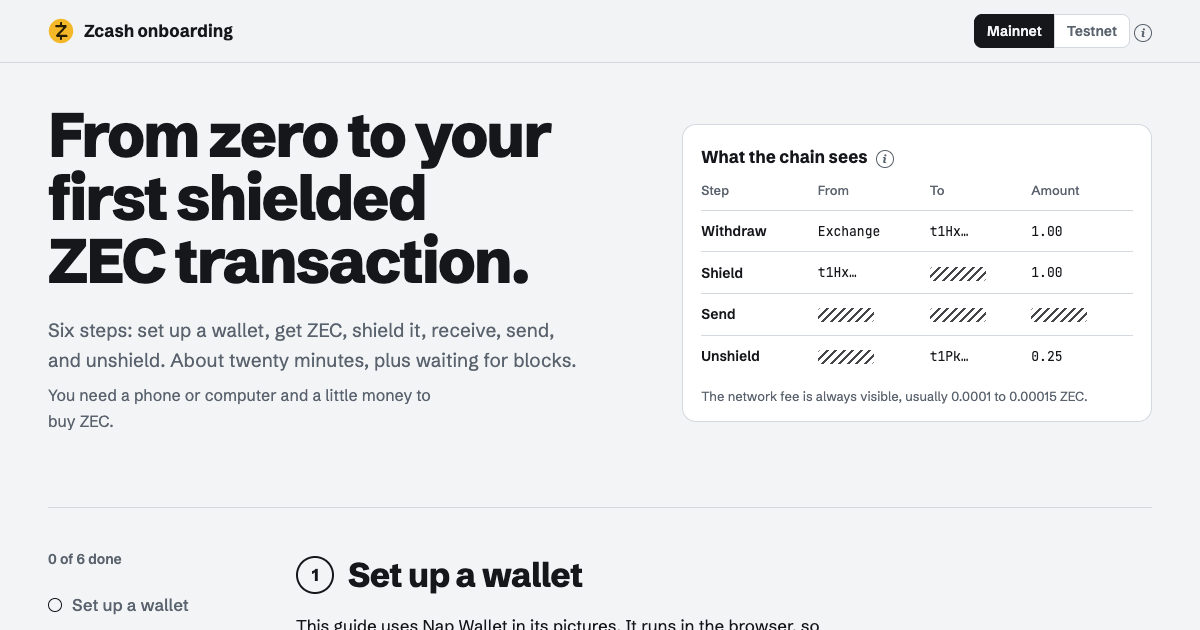
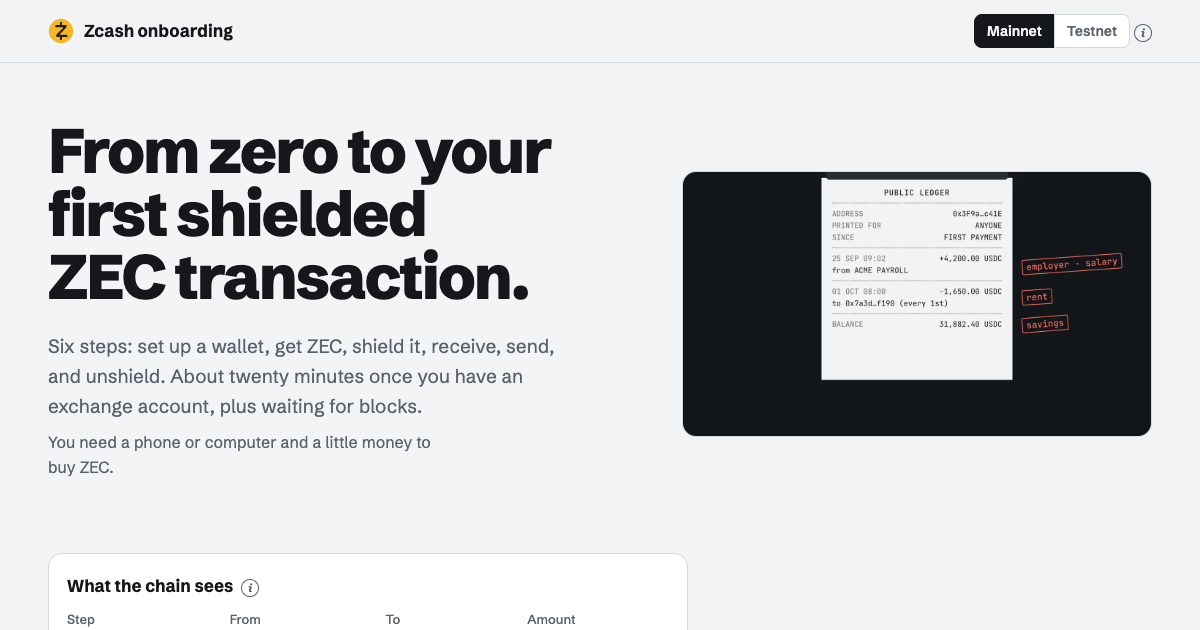
Zcash onboarding: fact-check fixes before publishing
Testnet off until Nap signs for NU7 there (live on testnet since 4 Oct);
ZEC lives under Nap's Zcash section, not Receive; memos show on arrival;
proving takes up to a minute; exchange purchase holds; wallets limited to
those ZecHub lists as Ironwood-ready; TEX deposit note; the checker reads
ztestsapling and uivk keys; whole-address comparison; new share image.

diff --git a/apps/zec-onboard/public/index.html b/apps/zec-onboard/public/index.html
@@ -21,7 +21,7 @@
 
 <header class="top">
   <a class="mark" href="/"><svg viewBox="0 0 32 32" aria-hidden="true"><circle cx="16" cy="16" r="15"/><path d="M10 10h12l-11 12h12M16 6v4M16 22v4"/></svg>Zcash onboarding</a>
-  <div class="net" role="group" aria-label="Network">
+  <div class="net" role="group" aria-label="Network" hidden>
     <button type="button" data-net="main" aria-pressed="true">Mainnet</button>
     <button type="button" data-net="test" aria-pressed="false">Testnet</button>
     <span class="tip"><button type="button" class="i" aria-expanded="false" aria-label="About testnet">i</button><span class="bubble" role="note" hidden>Testnet is a copy of Zcash for practice. Its coins, TAZ, are free from a faucet and worth nothing. Every step works the same way. Switch here and in your wallet.</span></span>
@@ -32,7 +32,7 @@
   <section class="hero">
     <div class="hero-text">
       <h1>From zero to your first shielded ZEC transaction.</h1>
-      <p class="lede">Six steps: set up a wallet, get ZEC, shield it, receive, send, and unshield. About twenty minutes once you have an exchange account, plus waiting for blocks.</p>
+      <p class="lede">Six steps: set up a wallet, get ZEC, shield it, receive, send, and unshield. About twenty minutes of steps. An exchange may hold a new purchase for days before you can withdraw it.</p>
       <p class="lede small"><span class="m">You need a phone or computer and a little money to buy ZEC.</span><span class="t">On testnet you need nothing: the faucet gives you coins.</span></p>
     </div>
     <figure class="film" aria-labelledby="film-cap">
@@ -46,7 +46,7 @@
   <section class="chain-row">
     <figure class="chain" aria-labelledby="chain-cap">
       <figcaption id="chain-cap">What the chain sees
-        <span class="tip"><button type="button" class="i" aria-expanded="false" aria-label="About this table">i</button><span class="bubble" role="note" hidden>Every Zcash transaction is recorded on the blockchain. In the shielded parts the chain shows no addresses, and only the sender and the receiver can read the amount and the memo. Hatched cells are what an observer cannot see.</span></span>
+        <span class="tip"><button type="button" class="i" aria-expanded="false" aria-label="About this table">i</button><span class="bubble" role="note" hidden>Every Zcash transaction is recorded on the blockchain. In the shielded parts the chain shows no addresses, and only the sender, the receiver and anyone holding their viewing key can read the amount and the memo. Hatched cells are what an observer cannot see.</span></span>
       </figcaption>
       <table>
         <thead><tr><th scope="col">Step</th><th scope="col">From</th><th scope="col">To</th><th scope="col">Amount</th></tr></thead>
@@ -82,7 +82,7 @@
         <div class="step-text">
           <h2 id="s1-h"><span class="n">1</span>Set up a wallet</h2>
           <p>This guide uses Nap Wallet in its pictures. It runs in the browser, so there is nothing to install.
-            <span class="tip"><button type="button" class="i" aria-expanded="false" aria-label="Other wallets">i</button><span class="bubble" role="note" hidden>Any shielded Zcash wallet follows the same steps, for example Zodl, YWallet, Zingo! or Noir. The buttons have slightly different names. A list by platform is at the end of this page.</span></span>
+            <span class="tip"><button type="button" class="i" aria-expanded="false" aria-label="Other wallets">i</button><span class="bubble" role="note" hidden>Any shielded Zcash wallet follows the same steps, for example Zodl, Zingo!, Zkool or Noir. The buttons have slightly different names. A list by platform is at the end of this page.</span></span>
           </p>
           <ol class="do">
             <li>Open <a href="https://nap.zyn-network.com" rel="noopener">nap.zyn-network.com</a>.<span class="t"> Pick the testnet network in the menu at the top right.</span></li>
@@ -102,22 +102,22 @@
           <div class="m">
             <p>Buy ZEC on an exchange that serves your country, such as Coinbase, Kraken or Gemini. Most exchanges pay out only to a transparent address, so that is where you will receive it first.</p>
             <ol class="do">
-              <li>In Nap, open <b>Receive</b> and choose <b>Transparent address</b>. It starts with <code>t1</code>.</li>
-              <li>On the exchange, withdraw ZEC and paste that address. Check the first and last few characters match.</li>
-              <li>Wait for it to arrive. Zcash makes a block about every 75 seconds; exchanges and wallets wait for a few.
-                <span class="tip"><button type="button" class="i" aria-expanded="false" aria-label="If your exchange can pay a shielded address">i</button><span class="bubble" role="note" hidden>If your exchange accepts a unified address (u1…), you can withdraw straight to your shielded address and skip step 3. The exchange's withdrawal page says which address types it accepts.</span></span>
+              <li>In Nap, go to <b>Zcash</b> and choose <b>Transparent address</b>. It starts with <code>t1</code>.</li>
+              <li>On the exchange, withdraw ZEC and paste that address. Compare the whole address, not just its ends.</li>
+              <li>Wait for it to arrive. Zcash makes a block about every 75 seconds (25 seconds after the NU7 upgrade); exchanges and wallets wait for a few.
+                <span class="tip"><button type="button" class="i" aria-expanded="false" aria-label="If your exchange can pay a shielded address">i</button><span class="bubble" role="note" hidden>If your exchange accepts a unified address (u1…), you can withdraw straight to your shielded address and skip step 3. The exchange's withdrawal page says which address types it accepts. Try a small amount first.</span></span>
               </li>
             </ol>
           </div>
           <div class="t">
             <p>Testnet coins (TAZ) come from a faucet. They are free and worth nothing.</p>
             <ol class="do">
-              <li>In Nap, open <b>Receive</b> and choose <b>Transparent address</b>. On testnet it starts with <code>tm</code>.</li>
+              <li>In Nap, go to <b>Zcash</b> and choose <b>Transparent address</b>. On testnet it starts with <code>tm</code>.</li>
               <li>Paste it into the <a href="https://faucet.testnet.valargroup.dev" rel="noopener">Valar testnet faucet</a>. It pays 0.125 TAZ once a day.</li>
-              <li>Wait for it to arrive. A block comes about every 75 seconds.</li>
+              <li>Wait for it to arrive. A block comes about every 25 seconds.</li>
             </ol>
           </div>
-          <p class="warn">A transparent address is public, like a Bitcoin address. Anyone can see what it receives, from whom, and its balance. Use it to receive from the exchange, then shield.</p>
+          <p class="warn">A transparent address is public, like a Bitcoin address. Anyone can see what it receives and sends, and its balance. Use it to receive from the exchange, then shield.</p>
           <button type="button" class="done" data-step="2" aria-pressed="false">Mark step 2 done</button>
         </div>
         <figure class="shot"><img src="/shots/shield-receive-t.webp" alt="Nap's receive screen showing the transparent address and its QR code" width="390" height="770" loading="lazy"></figure>
@@ -130,8 +130,8 @@
           <ol class="do">
             <li>Once the ZEC arrives, Nap shows it on its own line, <b>Transparent · public</b>, with a <b>Shield</b> button.</li>
             <li>Press <b>Shield</b>. Check the fee (0.00015 ZEC for one incoming payment) and confirm.</li>
-            <li>Nap builds a zero-knowledge proof. It takes about half a minute; keep the tab open.
-              <span class="tip"><button type="button" class="i" aria-expanded="false" aria-label="About the proof">i</button><span class="bubble" role="note" hidden>The proof shows the network the transaction is valid without revealing what is inside it. Your device makes it; nothing secret leaves the device.</span></span>
+            <li>Nap builds a zero-knowledge proof. It takes up to a minute; keep the tab open.
+              <span class="tip"><button type="button" class="i" aria-expanded="false" aria-label="About the proof">i</button><span class="bubble" role="note" hidden>The proof shows the network the transaction is valid without revealing its shielded part. Your device makes it, and your keys never leave the device.</span></span>
             </li>
             <li>After a few blocks, about five minutes, the ZEC shows in your shielded balance.</li>
           </ol>
@@ -148,11 +148,11 @@
             <span class="tip"><button type="button" class="i" aria-expanded="false" aria-label="About unified addresses">i</button><span class="bubble" role="note" hidden>A unified address bundles receivers for Zcash's pools in one string. Nap's holds only a shielded receiver, so the chain never shows this address. A payment that comes from a transparent address still shows its amount.</span></span>
           </p>
           <ol class="do">
-            <li>Open <b>Receive</b>. The shielded address is shown first, with a QR code.</li>
+            <li>In Nap, go to <b>Zcash</b>. The shielded address is shown first, with a QR code.</li>
             <li>Copy it or show the QR to whoever pays you.</li>
-            <li>They can add a memo of up to 512 bytes. Only you and the sender can read it; it shows in your activity.</li>
+            <li>They can add a memo of up to 512 bytes. Only you, the sender, and anyone holding your viewing key can read it. Nap shows it when the payment arrives.</li>
           </ol>
-          <p>Sharing a shielded address is safe: the chain never shows it as the receiver of a payment.</p>
+          <p>The chain never shows a shielded address. People you give it to can still tell it is yours.</p>
           <button type="button" class="done" data-step="4" aria-pressed="false">Mark step 4 done</button>
         </div>
         <figure class="shot"><img src="/shots/receive-u.webp" alt="Nap's receive screen with the shielded address and QR code" width="390" height="770" loading="lazy"></figure>
@@ -163,9 +163,9 @@
           <h2 id="s5-h"><span class="n">5</span>Send a shielded payment</h2>
           <p>From one shielded address to another, the chain shows only that a transaction happened, when, its size and its fee.</p>
           <ol class="do">
-            <li>Open <b>Send</b> and paste a <code class="m">u1…</code><code class="t">utest1…</code> address. No one to pay? Use your own.</li>
+            <li>Under <b>Send ZEC</b>, paste a <code class="m">u1…</code><code class="t">utest1…</code> address. No one to pay? Use your own.</li>
             <li>Enter an amount and, if you like, a memo.</li>
-            <li>Review and confirm. Proving takes about half a minute.</li>
+            <li>Review and confirm. Proving takes up to a minute.</li>
             <li>Copy the transaction id and look it up below.</li>
           </ol>
           <form class="tool" id="tx-form" autocomplete="off">
@@ -183,7 +183,7 @@
           <h2 id="s6-h"><span class="n">6</span>Unshield</h2>
           <p>Sending to a transparent address, for example an exchange deposit address to sell, takes ZEC out of the shielded pool.</p>
           <ol class="do">
-            <li>Open <b>Send</b> and paste the <code class="m">t1…</code><code class="t">tm…</code> address. Check it below first if you are unsure what it is.</li>
+            <li>Under <b>Send ZEC</b>, paste the <code class="m">t1…</code><code class="t">tm…</code> address. Check it below first if you are unsure what it is. Some exchanges give a TEX address (<code>tex1…</code>), which Nap cannot pay yet.</li>
             <li>Enter the amount. Memos only reach shielded addresses, so Nap turns the memo field off.</li>
             <li>Review and confirm.</li>
           </ol>
@@ -206,41 +206,35 @@
           <li><a href="https://z.cash" rel="noopener">z.cash</a>: how Zcash works.</li>
         </ul>
         <h2 id="wallets-h" class="sub">Wallets</h2>
-        <p>Every wallet below holds shielded ZEC and can send privately.
+        <p>Every wallet below holds shielded ZEC in the current pool, Ironwood, according to ZecHub's directory.
           <span class="tip"><button type="button" class="i" aria-expanded="false" aria-label="About moving between wallets">i</button><span class="bubble" role="note" hidden>Most Zcash wallets use the same 24-word standard, so a phrase usually restores in another wallet. Try it with a small amount before relying on it.</span></span>
         </p>
         <div class="wallets">
           <div><h3>Phone</h3><ul class="links">
             <li><a href="https://zodl.com" rel="noopener">Zodl</a> (formerly Zashi)</li>
-            <li><a href="https://ywallet.app/installation/" rel="noopener">YWallet</a></li>
             <li><a href="https://www.zingolabs.org/" rel="noopener">Zingo!</a></li>
             <li><a href="https://unstoppable.money" rel="noopener">Unstoppable</a></li>
             <li><a href="https://cakewallet.com/install/" rel="noopener">Cake Wallet</a></li>
-            <li><a href="https://justzend.com/" rel="noopener">Zend</a></li>
-            <li><a href="https://www.freedomwallet.com/" rel="noopener">Freedom Wallet</a></li>
             <li><a href="https://www.justzappit.xyz/app" rel="noopener">Zapp</a></li>
           </ul></div>
           <div><h3>Computer</h3><ul class="links">
-            <li><a href="https://ywallet.app/installation/" rel="noopener">YWallet</a></li>
             <li><a href="https://www.zingolabs.org/" rel="noopener">Zingo!</a></li>
             <li><a href="https://cakewallet.com/install/" rel="noopener">Cake Wallet</a></li>
             <li><a href="https://vizor.cash/" rel="noopener">Vizor</a></li>
             <li><a href="https://github.com/hhanh00/zkool2/" rel="noopener">Zkool</a></li>
-            <li><a href="https://github.com/zcash/wallet" rel="noopener">Zallet</a>: command line</li>
+            <li><a href="https://github.com/zcash/wallet" rel="noopener">Zallet</a>: command line, beta</li>
           </ul></div>
           <div><h3>Browser</h3><ul class="links">
             <li><a href="https://www.zknoir.com/" rel="noopener">Noir</a>: extension</li>
             <li><a href="https://nap.zyn-network.com" rel="noopener">Nap Wallet</a>: web page and extension</li>
-            <li><a href="https://snaps.metamask.io/snap/npm/chainsafe/webzjs-zcash-snap/" rel="noopener">Zcash Snap</a> for MetaMask</li>
-            <li><a href="https://zucchinifi.xyz/" rel="noopener">Zucchini</a></li>
           </ul></div>
           <div><h3>Hardware</h3><ul class="links">
-            <li><a href="https://shop.keyst.one" rel="noopener">Keystone</a>, with Zodl</li>
-            
+            <li><a href="https://shop.keyst.one" rel="noopener">Keystone</a>, with a companion wallet</li>
+            <li><a href="https://www.ledger.com/coin/wallet/zcash" rel="noopener">Ledger</a>, with a companion wallet</li>
           </ul></div>
         </div>
         <p class="warn">Trust Wallet, Exodus, Coinomi, SafePal, Trezor and many other multi-coin wallets hold transparent ZEC only. They cannot shield. Send from them to the transparent address of a shielded wallet, then shield there.</p>
-        <p class="fine">More wallets, with the pools each supports: <a href="https://zechub.wiki/wallets" rel="noopener">ZecHub's wallet directory</a>.</p>
+        <p class="fine">More wallets, and which ones support Ironwood: <a href="https://zechub.wiki/wallets" rel="noopener">ZecHub's wallet directory</a>.</p>
       </section>
     </div>
   </div>

diff --git a/apps/zec-onboard/public/address.js b/apps/zec-onboard/public/address.js
@@ -28,6 +28,8 @@ const BECH = {
   textest: { kind: 'tex', net: 'testnet', name: 'TEX address', m: true },
   uview: { kind: 'viewing', net: 'mainnet', name: 'Unified viewing key', m: true },
   uviewtest: { kind: 'viewing', net: 'testnet', name: 'Unified viewing key', m: true },
+  uivk: { kind: 'viewing', net: 'mainnet', name: 'Unified incoming viewing key', m: true },
+  uivktest: { kind: 'viewing', net: 'testnet', name: 'Unified incoming viewing key', m: true },
 };
 
 async function sha256(bytes) {
@@ -86,7 +88,7 @@ export async function identify(input) {
   if (!s) return { kind: null, reason: '' };
   if (/\s/.test(s)) return { kind: null, reason: 'An address has no spaces.' };
 
-  if (/^(t1|t3|tm|t2|zc|zt)/.test(s)) {
+  if (/^(t1|t3|tm|t2|zc|zt(?!estsapling))/.test(s)) {
     const raw = base58(s);
     if (!raw || raw.length !== (s.startsWith('z') ? 70 : 26)) {
       return { kind: null, reason: 'This starts like a Zcash address but has the wrong length or characters.' };
@@ -120,13 +122,13 @@ export async function identify(input) {
 export const DESCRIBE = {
   transparent: {
     pool: 'Transparent',
-    seen: 'Public. Anyone can see what this address receives, from where, and its balance.',
+    seen: 'Public. Anyone can see what this address receives and sends, and its balance.',
     nap: 'Nap can pay it. The payment leaves the shielded pool (unshielding), and a memo cannot be attached.',
   },
   unified: {
     pool: 'Shielded (usually)',
     seen: 'The chain does not show this address when it is paid through its shielded receiver, which wallets use whenever they can. A payment from a transparent address still shows its amount.',
-    nap: 'Nap can pay it through its shielded receiver, with a memo.',
+    nap: 'Nap can pay it, with a memo, if it has an Orchard or Ironwood receiver, as current wallets\' addresses do.',
   },
   sapling: {
     pool: 'Shielded (Sapling)',

diff --git a/apps/zec-onboard/public/style.css b/apps/zec-onboard/public/style.css
@@ -63,6 +63,7 @@ html[data-net="main"] .t, html[data-net="test"] .m { display: none !important; }
 .mark circle { fill: var(--zec); }
 .mark path { fill: none; stroke: var(--zec-ink); stroke-width: 2.6; stroke-linecap: round; stroke-linejoin: round; }
 .net { display: flex; align-items: center; gap: 4px; }
+.net[hidden] { display: none; }
 .net > button {
   border: 1px solid var(--line); background: var(--sheet); color: var(--mute);
   font: 600 14px Schibsted, sans-serif; padding: 7px 12px; cursor: pointer;

diff --git a/apps/zec-onboard/public/app.js b/apps/zec-onboard/public/app.js
@@ -13,6 +13,8 @@ function save(state) {
   try { localStorage.setItem(KEY, JSON.stringify(state)); } catch { /* private window: this visit only */ }
 }
 const state = { net: 'main', done: [], ...load() };
+// Testnet is off until Nap signs for NU7 there; earlier visitors may have it saved.
+state.net = 'main';
 if (!Array.isArray(state.done)) state.done = [];
 
 const EXPLORER = {
